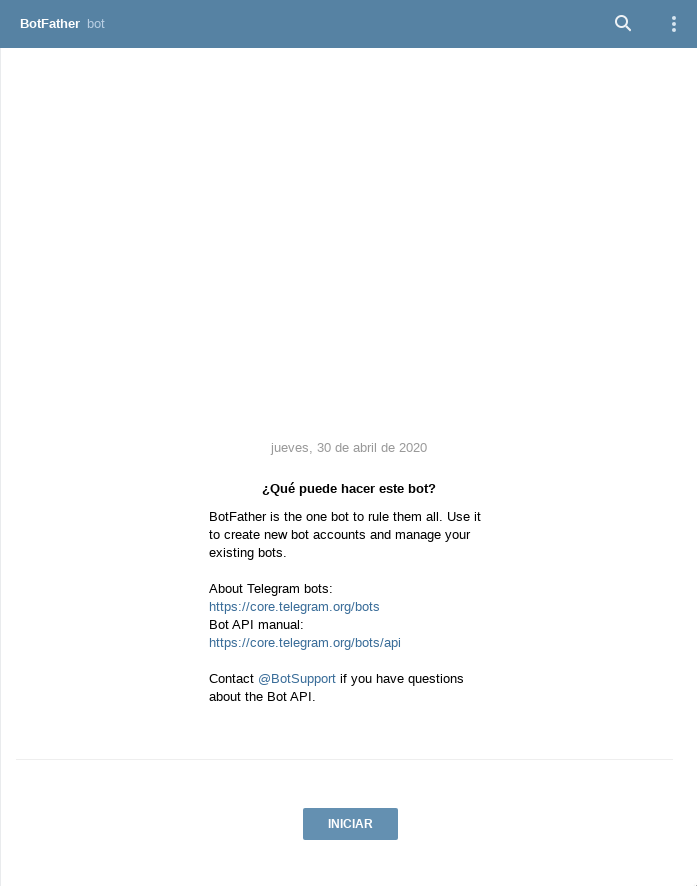
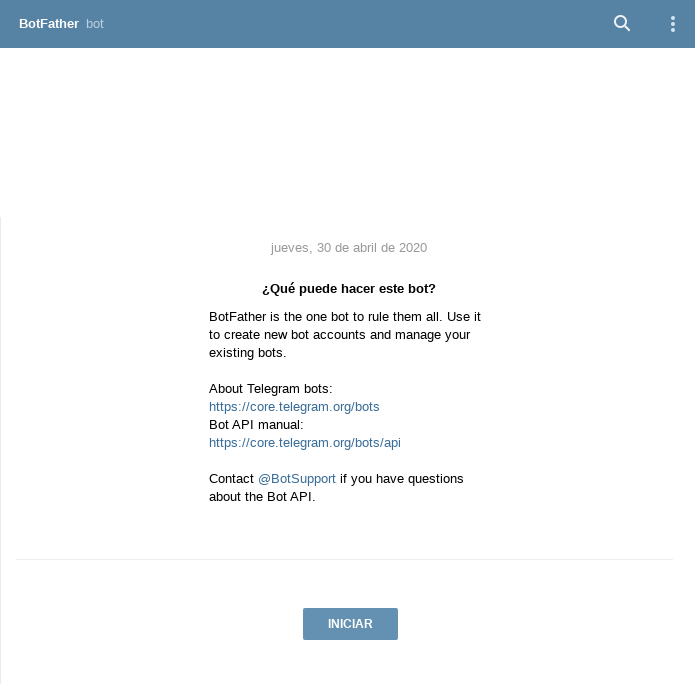
imagenes

diff --git a/README.md b/README.md
@@ -5,8 +5,8 @@
 
 ## Crear un bot de Telegram
 El primer paso para crear un bot iniciar **BotFather** desde Telegram.<br>
-<img src="https://github.com/helee18/python_sysadmin/blob/master/images/01_conectar_botfather.png" alt="BotFather" width="300"/>
-<img src="https://github.com/helee18/python_sysadmin/blob/master/images/02_start_botfather.png" alt="BotFather" width="300"/><br>
+<img src="https://github.com/helee18/python_sysadmin/blob/master/images/01_conectar_botfather.png" alt="BotFather" width="500"/>
+<img src="https://github.com/helee18/python_sysadmin/blob/master/images/02_start_botfather.png" alt="BotFather" width="500"/><br>
 
 Creamos un nuevo bot con `/newbot` y le ponemos nombre al bot y al usuario.
 ![alt text](https://github.com/helee18/python_sysadmin/blob/master/images/03_nombre_bot.png)
